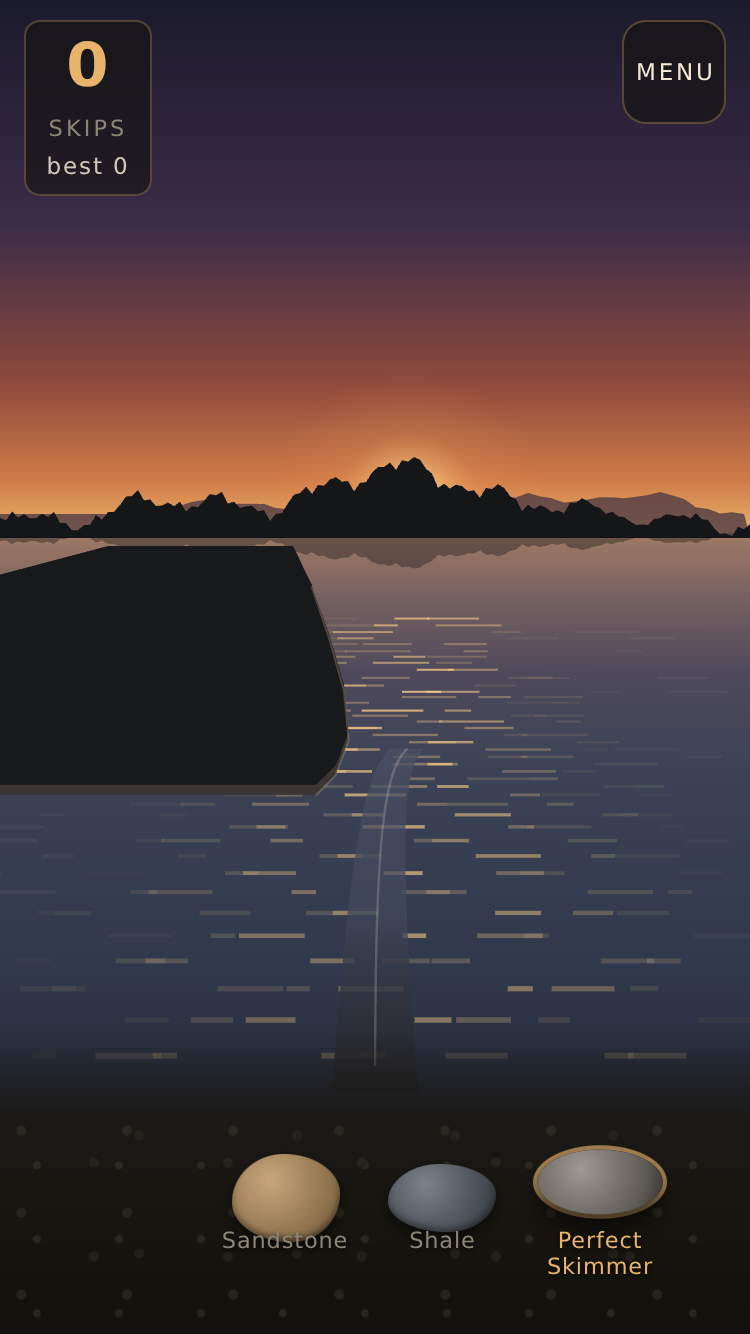
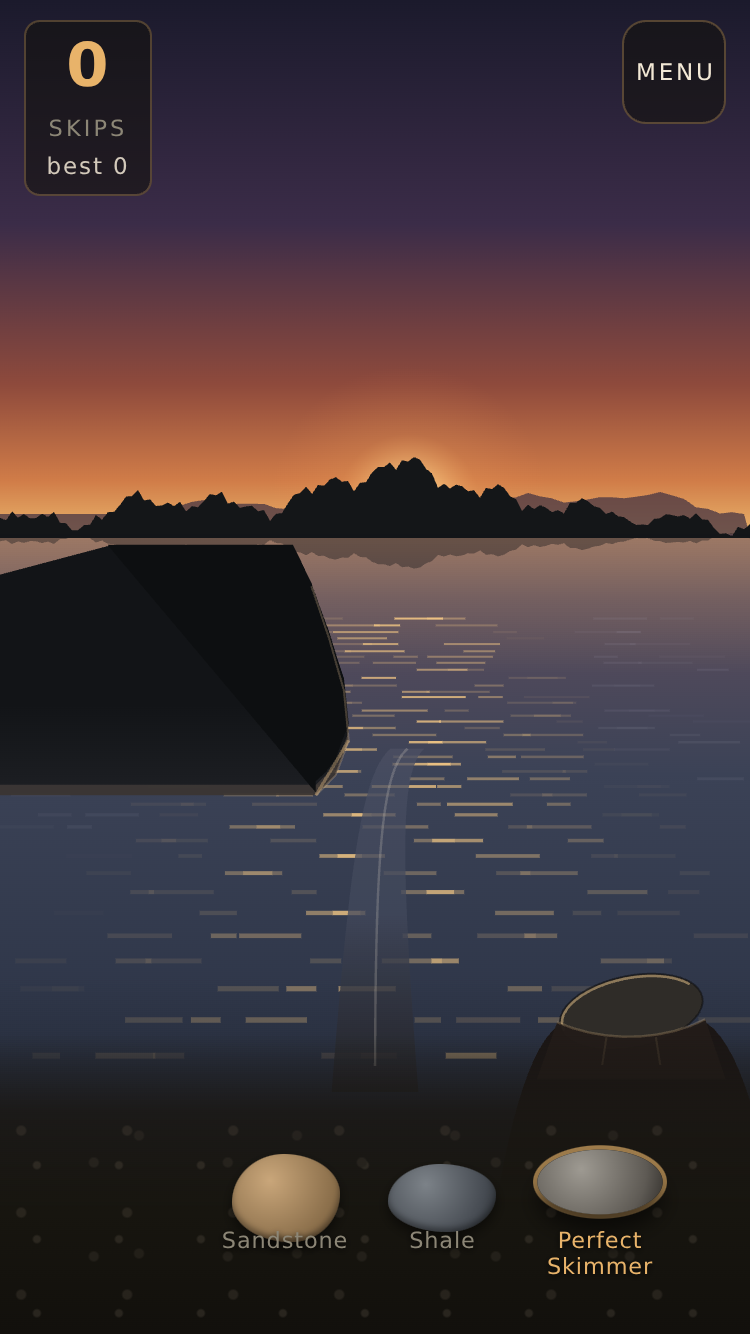
Gerplunk A7: the point is a wooded shore, and the stone you picked is in your hand
Both thin list items, neither needing any art. The point was one flat black
polygon with a ruled top edge, a piece of cardboard on the water; the mass is a
gradient now and a treeline stands on its landward edge, drawn from the same
continuous sines the far bank uses so the two read as one country. The stone you
picked is held at the right edge of the frame, cut by the bottom, and it goes
when the stone goes, which also fills the empty bottom third.

Three of my own probes were wrong first and each is written down: the trees
vanished at distance so the gate correctly measured a ruled line, the palm probe
was counting the sun's road on the water, and its colour threshold was chosen
rather than read off the canvas. One assertion was deleted for being decoration,
a step count whose bands are one apart at 320.

Seven gates green. Stamp 20260907b.

Claude-Session: https://claude.ai/code/session_018DB4RoSYktXhZkZcaK82Vg

diff --git a/satellites/gerplunk/index.html b/satellites/gerplunk/index.html
@@ -1,11 +1,11 @@
 <meta charset="utf-8">
 <meta name="viewport" content="width=device-width,initial-scale=1,viewport-fit=cover,maximum-scale=1">
 <meta name="theme-color" content="#1B1A24">
-<link rel="icon" href="./icon-192.png?v=20260907a">
-<link rel="apple-touch-icon" href="./icon-192.png?v=20260907a">
-<link rel="manifest" href="./manifest.webmanifest?v=20260907a">
+<link rel="icon" href="./icon-192.png?v=20260907b">
+<link rel="apple-touch-icon" href="./icon-192.png?v=20260907b">
+<link rel="manifest" href="./manifest.webmanifest?v=20260907b">
 <title>GERPLUNK</title>
-<script src="/music-unlocks.js?v=20260907a" defer></script>
+<script src="/music-unlocks.js?v=20260907b" defer></script>
 <style>
 :root{
   --dusk:#1B1A24; --water:#2E3646; --water-lo:#232A38; --gold:#E8B36A; --gold-lo:#A9793F;
@@ -1519,7 +1519,7 @@ function suiteCopy(T) {
    Nothing below reaches into the model except through newThrow, runThrow,
    plantYaw, motionFromSamples and throwFromMotion, and the picture is drawn
    from the model's own trace, so the count and the picture cannot disagree. */
-var STAMP = '20260907a';
+var STAMP = '20260907b';
 var $ = function (id) { return document.getElementById(id); };
 var CV, CTX, W = 375, H = 667, DPR = 1;
 
@@ -2244,11 +2244,63 @@ function drawLand() {
   /* the wet edge first, then the land on top of it */
   CTX.fillStyle = 'rgba(58,52,48,0.9)';
   CTX.beginPath(); for (i = 0; i < rim.length; i++) { p = rim[i]; if (i) CTX.lineTo(p.x, p.y); else CTX.moveTo(p.x, p.y); } CTX.closePath(); CTX.fill();
-  CTX.fillStyle = '#17191B';
+  /* ⛔ THE LAND WAS ONE FLAT BLACK POLYGON with a straight top edge running off
+     the left of the screen: a piece of cardboard laid on the water, which is
+     what the thin list means by "a flat dusk silhouette". Three things fix it
+     and all three are code drawing.
+     (1) The mass is a GRADIENT, near land a shade warmer than far land, because
+     the near tip is a few metres away and the shoulder is half a kilometre.
+     (2) A TREELINE stands on the landward edge, drawn from the SAME continuous
+     `treeH` the far bank uses, so the point is wooded and its top edge is not a
+     ruled line; it scrolls with the yaw like everything else in the world.
+     (3) The lip catches the sun: the water is bright right of the tip and the
+     wet stones there take a little of it. */
+  var g0 = CTX.createLinearGradient(0, top[1].y - 40, 0, top[0].y + 30);
+  g0.addColorStop(0, '#121417');
+  g0.addColorStop(1, '#23252A');
+  CTX.fillStyle = g0;
   CTX.beginPath(); for (i = 0; i < top.length; i++) { p = top[i]; if (i) CTX.lineTo(p.x, p.y); else CTX.moveTo(p.x, p.y); } CTX.closePath(); CTX.fill();
-  /* a stony lip where the land meets the water */
+  /* the trees ON the point, standing along its landward edge */
+  drawPointTrees(top);
+  /* a stony lip where the land meets the water, and the sun on it near the tip */
   CTX.strokeStyle = 'rgba(214,182,140,0.28)'; CTX.lineWidth = 1;
   CTX.beginPath(); for (i = 1; i < 7; i++) { p = rim[i]; if (i > 1) CTX.lineTo(p.x, p.y); else CTX.moveTo(p.x, p.y); } CTX.stroke();
+  CTX.strokeStyle = 'rgba(255,208,142,0.34)'; CTX.lineWidth = 1.6;
+  CTX.beginPath(); CTX.moveTo(rim[1].x, rim[1].y); CTX.lineTo(rim[3].x, rim[3].y); CTX.stroke();
+}
+/* THE TREES ON THE POINT. The landward edge of the point runs from its tip out
+   to the horizon, and a wooded shore has a skyline. Drawn against the same
+   `treeH` sum of sines the far bank uses, with a seed of its own, so the two
+   read as one country; the heights fall away with the projection so the far end
+   of the point is scrub and the near end is real trees. */
+function drawPointTrees(top) {
+  var i, seg, off = yawNow() * LAKE.TREE_PX_PER_DEG;
+  CTX.save();
+  CTX.fillStyle = '#0D0F11';
+  CTX.beginPath();
+  CTX.moveTo(top[1].x, top[1].y + 4);
+  for (i = 1; i < top.length - 1; i++) {
+    var a = top[i], b = top[i + 1];
+    var n = Math.max(2, Math.min(28, Math.round(Math.abs(b.x - a.x) / 5)));
+    for (seg = 0; seg <= n; seg++) {
+      var u = seg / n, x = a.x + (b.x - a.x) * u, y = a.y + (b.y - a.y) * u;
+      /* the scale of a tree at this distance, from the projection's own s */
+      /* ⛔ AT 0.055 THE TREES VANISHED. The far end of the point is six hundred
+         metres out, where the projection's scale is a fraction of a pixel per
+         metre, so `min(1, s * 0.055)` was near zero and six hundred pixels of
+         skyline came out as a ruled line: the gate measured a deviation of
+         nought. A treeline at six hundred metres is still a visible fringe, so
+         the height falls with distance to a FLOOR of two and a half pixels
+         rather than to nothing. */
+      var sc = (a.s + (b.s - a.s) * u) * 0.16;
+      var h = (7 + treeH((x + off) * 0.9 + 41, 5)) * Math.min(1, sc);
+      CTX.lineTo(x, y - Math.max(2.5, Math.min(26, h)));
+    }
+  }
+  CTX.lineTo(top[top.length - 1].x, top[top.length - 1].y);
+  CTX.lineTo(top[1].x, top[1].y + 4);
+  CTX.closePath(); CTX.fill();
+  CTX.restore();
 }
 function drawTrees() {
   var hy = horizonY(), off = yawNow() * LAKE.TREE_PX_PER_DEG, x, seed = 3;
@@ -2415,6 +2467,83 @@ function drawStone(pos) {
   CTX.beginPath(); CTX.ellipse(p.x - rx * 0.3, p.y - ry * 0.35, rx * 0.28, ry * 0.28, 0, 0, Math.PI * 2); CTX.fill();
 }
 function yawNow() { return G.liveYaw === null ? G.yaw : G.liveYaw; }
+
+/* THE STONE IN THE PALM. On the thin list twice over: "no stone in the palm
+   view" and "the thumb's bottom third is empty water". The bank tells you which
+   stone is picked with a button and a name, and then the thing you are about to
+   throw is nowhere on the screen. It sits at the RIGHT edge, out of the seam's
+   way and a long way from the bottom left 120 by 120 the music chip owns, and
+   it goes when the stone goes. Code drawing, no art. */
+var STONE_LOOK = {
+  sandstone: { hi: '#D8B489', mid: '#8A6E4A', lo: '#4E3D28', w: 1.00, h: 0.80 },
+  shale: { hi: '#8C939B', mid: '#464B52', lo: '#25282C', w: 1.06, h: 0.60 },
+  granite: { hi: '#B6B1A7', mid: '#6B655C', lo: '#3A3631', w: 0.92, h: 0.90 },
+  skimmer: { hi: '#ADA9A0', mid: '#5E5A54', lo: '#2F2C28', w: 1.10, h: 0.54 },
+  heavyflat: { hi: '#7E7972', mid: '#403C37', lo: '#1F1D1A', w: 1.10, h: 0.68 },
+  seaglass: { hi: '#CFF0DC', mid: '#5FA484', lo: '#2C5F48', w: 1.02, h: 0.64 },
+  fossil: { hi: '#C6BAA2', mid: '#6B6252', lo: '#3A342B', w: 1.00, h: 0.68 },
+  quartz: { hi: '#FFF8EC', mid: '#D8C6A8', lo: '#8C7A5C', w: 1.00, h: 0.66 }
+};
+function drawPalm() {
+  if (G.screen !== 'lake') return;
+  if (G.play && !G.play.sunk) return;
+  var L = STONE_LOOK[G.stoneId] || STONE_LOOK.sandstone;
+  /* ⛔ THE FIRST DRAFT DREW TWO ROUND FINGERTIPS ON THE FACE OF THE STONE and it
+     read as a pair of eyes on a tan blob, which is worse than the empty water it
+     was meant to fill. A hand at the bottom of a frame is ONE shape rising from
+     off screen with the stone cradled in it, and the fingers are a single ridge
+     across the near edge, not discs on the front. */
+  var r = Math.max(26, Math.min(38, W * 0.088));
+  var cx = W - r * 1.8, cy = shoreY() - r * 1.25;
+  var rx = r * L.w, ry = r * L.h, tilt = -0.2;
+  /* the hand, rising from below the frame's bottom edge and cut by it */
+  CTX.save();
+  CTX.fillStyle = 'rgba(26,21,19,0.95)';
+  CTX.beginPath();
+  CTX.moveTo(cx - rx * 2.1, H);
+  CTX.quadraticCurveTo(cx - rx * 1.7, cy + ry * 1.5, cx - rx * 1.02, cy + ry * 0.42);
+  CTX.quadraticCurveTo(cx, cy + ry * 1.0, cx + rx * 1.05, cy + ry * 0.34);
+  CTX.quadraticCurveTo(cx + rx * 1.8, cy + ry * 1.4, cx + rx * 2.2, H);
+  CTX.closePath(); CTX.fill();
+  CTX.restore();
+  /* the stone, sitting in it */
+  var g = CTX.createRadialGradient(cx - rx * 0.34, cy - ry * 0.42, r * 0.08, cx, cy, rx * 1.1);
+  g.addColorStop(0, L.hi); g.addColorStop(0.55, L.mid); g.addColorStop(1, L.lo);
+  CTX.save();
+  CTX.translate(cx, cy); CTX.rotate(tilt);
+  CTX.fillStyle = g;
+  CTX.beginPath(); CTX.ellipse(0, 0, rx, ry, 0, 0, Math.PI * 2); CTX.fill();
+  /* the sun's rim along the top left, the same light the water has */
+  CTX.strokeStyle = 'rgba(255,214,150,0.45)'; CTX.lineWidth = 1.4;
+  CTX.beginPath(); CTX.ellipse(0, 0, rx * 0.97, ry * 0.94, 0, Math.PI * 0.95, Math.PI * 1.85); CTX.stroke();
+  CTX.strokeStyle = 'rgba(10,10,12,0.5)'; CTX.lineWidth = 1;
+  CTX.beginPath(); CTX.ellipse(0, 0, rx, ry, 0, 0, Math.PI * 2); CTX.stroke();
+  CTX.restore();
+  /* ONE ridge of fingers across the near edge, with the light on its top */
+  CTX.save();
+  CTX.fillStyle = 'rgba(34,27,24,0.96)';
+  CTX.beginPath();
+  CTX.moveTo(cx - rx * 1.02, cy + ry * 0.30);
+  CTX.bezierCurveTo(cx - rx * 0.4, cy + ry * 0.86, cx + rx * 0.4, cy + ry * 0.86, cx + rx * 1.02, cy + ry * 0.22);
+  CTX.lineTo(cx + rx * 1.3, cy + ry * 1.9);
+  CTX.lineTo(cx - rx * 1.3, cy + ry * 1.9);
+  CTX.closePath(); CTX.fill();
+  CTX.strokeStyle = 'rgba(255,214,150,0.20)'; CTX.lineWidth = 1.2;
+  CTX.beginPath();
+  CTX.moveTo(cx - rx * 1.02, cy + ry * 0.30);
+  CTX.bezierCurveTo(cx - rx * 0.4, cy + ry * 0.86, cx + rx * 0.4, cy + ry * 0.86, cx + rx * 1.02, cy + ry * 0.22);
+  CTX.stroke();
+  /* the two creases where the fingers meet, faint */
+  CTX.strokeStyle = 'rgba(255,214,150,0.09)'; CTX.lineWidth = 1;
+  var f;
+  for (f = -1; f <= 1; f += 2) {
+    CTX.beginPath();
+    CTX.moveTo(cx + f * rx * 0.34, cy + ry * 0.72);
+    CTX.lineTo(cx + f * rx * 0.40, cy + ry * 1.5);
+    CTX.stroke();
+  }
+  CTX.restore();
+}
 
 /* THE SPIN RING (P4, docs/THROW-REFERENCE.md A2). While the touch is down and
    the hand is still slow, a thin ring under the thumb draws the loop the thumb
@@ -2759,7 +2888,7 @@ function frame() {
   if (G.screen === 'lake' && (G.touch || !G.play || (G.play.sunk && G.rings.length === 0))) drawSeam();
   drawRings(G.play ? playT() : 0);
   if (G.play && !G.play.sunk) drawStone(stonePos(playT()));
-  if (G.screen === 'lake') drawSpinRing();
+  if (G.screen === 'lake') { drawPalm(); drawSpinRing(); }
   requestAnimationFrame(frame);
 }
 
@@ -2872,6 +3001,102 @@ window.GERPLUNK_DEV = {
     return { bank: G.spin, at: G.spinAt, down: !!T,
       x: s ? s[s.length - 1].x : null, y: s ? s[s.length - 1].y : null };
   },
+  /* THE LAND'S OWN EDGE, read off the canvas. A silhouette with a ruled top is
+     a piece of cardboard on the water, which is what the thin list means by "a
+     flat dusk silhouette"; a wooded point has a skyline that wanders. Walks the
+     columns across the point, finds where the dark land starts under the
+     horizon, and reports how far that boundary strays from the straight line
+     through its two ends and how often it steps. */
+  landEdge: function () {
+    var hy = horizonY(), sy = shoreY();
+    var d = CTX.getImageData(0, Math.round(hy * DPR), CV.width, Math.round((sy - hy) * DPR)).data;
+    var wpx = CV.width, hpx = Math.round((sy - hy) * DPR);
+    var cols = [], x, y, i, ys;
+    for (x = 2; x < wpx - 2; x += Math.max(1, Math.round(DPR))) {
+      ys = -1;
+      for (y = 0; y < hpx; y++) {
+        i = (y * wpx + x) * 4;
+        var lum = (d[i] + d[i + 1] + d[i + 2]) / 3;
+        /* ⛔ THE THRESHOLDS AND THE RUN WERE BOTH WRONG AND THE PROBE READ A FLAT
+           LINE. Under 34 missed the NEAR land, which is #23252A at lum 37
+           because the mass is a gradient now; and a run of four found the two
+           pixel strip where the far treeline's polygon closes just under the
+           horizon, at the same y in every column, which is exactly the ruled
+           line the assertion was written to forbid. The land is a big mass, so
+           the run is fourteen device rows. */
+        if (lum < 44) {
+          var run = 1, k;
+          for (k = 1; k < 14 && y + k < hpx; k++) {
+            var j = ((y + k) * wpx + x) * 4;
+            if ((d[j] + d[j + 1] + d[j + 2]) / 3 < 50) run++; else break;
+          }
+          if (run >= 14) { ys = y; break; }
+        }
+      }
+      if (ys >= 0) cols.push({ x: x / DPR, y: ys / DPR });
+    }
+    if (cols.length < 12) return { n: cols.length, steps: 0, turns: 0 };
+    /* ⛔ THE MEASURE IS LOCAL ROUGHNESS, NOT DEVIATION FROM A LINE. The first
+       draft took the straight line through the boundary's two ends and reported
+       the worst deviation from it, which came out at 127 px and would have
+       passed over a perfectly ruled shore: right of the point's tip there is no
+       land at all and the scan finds the DEEP WATER, which is nearly as dark, so
+       the number was measuring the gap between two different things. How often
+       the boundary STEPS from one column to the next is a property of the
+       skyline itself. Steps bigger than twenty pixels are the one place the land
+       ends and the water begins, and are not counted. */
+    var steps = 0, dy, turns = 0, prev = 0;
+    for (i = 1; i < cols.length; i++) {
+      dy = cols[i].y - cols[i - 1].y;
+      if (Math.abs(dy) >= 2 && Math.abs(dy) <= 20) steps++;
+      /* ⛔ TURNS, not steps, is the number that tells a skyline from a ruled
+         edge. A steep diagonal steps by two pixels a column all on its own, so
+         counting steps gave 29 with the trees against 20 without, which is too
+         narrow a band to hold anything. A diagonal never changes DIRECTION; a
+         treeline changes it at every tree. */
+      if (Math.abs(dy) > 20) { prev = 0; continue; }
+      if (dy !== 0) {
+        if (prev !== 0 && (dy > 0) !== (prev > 0)) turns++;
+        prev = dy;
+      }
+    }
+    return { n: cols.length, steps: steps, turns: turns };
+  },
+  /* how many pixels the STONE IN THE PALM paints, and where. It is on the thin
+     list twice, as "no stone in the palm view" and as "the thumb's bottom third
+     is empty water". */
+  palmInk: (function () {
+    function warm(d, i) { return d[i] > 58 && d[i] - d[i + 2] >= 18; }
+    return function () {
+    var r = Math.max(26, Math.min(38, W * 0.088));
+    var cx = W - r * 1.8, cy = shoreY() - r * 1.25;
+    var x0 = Math.max(0, Math.round((cx - r * 1.4) * DPR)), y0 = Math.max(0, Math.round((cy - r * 1.1) * DPR));
+    var x1 = Math.min(CV.width, Math.round((cx + r * 1.4) * DPR)), y1 = Math.min(CV.height, Math.round((cy + r * 1.1) * DPR));
+    if (x1 <= x0 || y1 <= y0) return { lit: 0, run: 0, box: [cx, cy, r] };
+    var d = CTX.getImageData(x0, y0, x1 - x0, y1 - y0).data, i, lit = 0;
+    var wpx = x1 - x0, hpx = y1 - y0, y, run = 0, best = 0;
+    /* ⛔ THE THRESHOLD WAS READ OFF THE CANVAS, not chosen. Down the middle of
+       the stone the pixels are 78,61,40, because the gradient's light is up and
+       to the LEFT and the centre column is already near the dark end; at a red
+       floor of 90 the probe could not see the stone it was written for. The
+       water there is 50,58,77 and the hand is 34,27,24, so red over 58 with red
+       at least eighteen over blue separates all three. */
+    for (i = 0; i < d.length; i += 4) if (warm(d, i)) lit++;
+    /* ⛔ A COUNT OF WARM PIXELS IS NOT A STONE. The sun's road lies across this
+       part of the water at the stance the gate looks from, and it is warm: the
+       count came out at 273 with the stone in hand and 258 without, which is a
+       probe measuring the lake. A stone is a SHAPE, so what is measured is the
+       longest unbroken run of warm pixels down the middle of the palm. The
+       stone is forty pixels of one thing; the sun's streaks are two. */
+    var col = Math.round(wpx / 2) * 4;
+    for (y = 0; y < hpx; y++) {
+      i = y * wpx * 4 + col;
+      if (warm(d, i)) { run++; if (run > best) best = run; }
+      else run = 0;
+    }
+    return { lit: Math.round(lit / (DPR * DPR)), run: Math.round(best / DPR), box: [cx, cy, r] };
+    };
+  })(),
   ink: function (cx, cy, rLo, rHi) {
     var pad = Math.ceil(rHi) + 3;
     var x0 = Math.max(0, Math.round((cx - pad) * DPR)), y0 = Math.max(0, Math.round((cy - pad) * DPR));

diff --git a/satellites/gerplunk/sw.js b/satellites/gerplunk/sw.js
@@ -12,7 +12,7 @@
    Bump SHELL_VERSION on every deploy, AND the ?v= on the registration in
    index.html in lockstep (they are both the STAMP, and tools/lint.mjs asserts it) — this host edge-pins bare sw.js URLs for 7 days. */
 
-const SHELL_VERSION = "gerplunk-shell-20260907a";
+const SHELL_VERSION = "gerplunk-shell-20260907b";
 const SFX_CACHE     = "gerplunk-unused-v1"; // no recorded audio: every sound is synthesised
 const NAV_TIMEOUT_MS = 8000;
 

diff --git a/satellites/gerplunk/docs/DECISIONS.md b/satellites/gerplunk/docs/DECISIONS.md
@@ -395,3 +395,41 @@ The gate reads the water at the exact point the thumb will hold, with no touch o
 then reads it again mid wind up; emptying `drawSpinRing` turns it red, and deleting the line
 that stops drawing once the arm is fast turns the companion assertion red. A gate that watched
 `G.spin` would have passed over a ring that was never painted.
+
+**D43 (2026-09-07, Opus) — the land is a wooded point, and the hand is not empty.** Both are on
+the thin list and both were exactly as it says.
+- **The point was one flat black polygon with a ruled top edge** running off the left of the
+  screen: a piece of cardboard laid on the water. Three things, all code drawing. The mass is a
+  gradient, near land a shade warmer than far, because the tip is sixteen metres away and the
+  shoulder is half a kilometre. A treeline stands on its landward edge, drawn from the SAME
+  continuous `treeH` sum of sines the far bank uses so the two read as one country and it scrolls
+  with the yaw. And the wet lip takes a little of the sun near the tip, where the water is bright.
+- **There was no stone in the palm** and the thumb's bottom third was empty water, both on the
+  thin list. The stone you picked is now held at the right edge, cut by the frame's bottom, out
+  of the seam's way and a long way from the bottom left 120 by 120 the music chip owns. It goes
+  when the stone goes.
+⛔ THE FIRST DRAFT OF THE HAND DREW TWO ROUND FINGERTIPS ON THE FACE OF THE STONE and it read as
+a pair of eyes on a tan blob, which is worse than the empty water it was meant to fill. A hand at
+the bottom of a frame is one shape rising from off screen with the stone cradled in it.
+
+**D44 (2026-09-07, Opus) — three probes for this were wrong before they were right, and each one
+was wrong in a way worth naming.**
+1. **The trees vanished.** At `min(1, s * 0.055)` the scale at the far end of the point, six
+   hundred metres out, was near zero, so six hundred pixels of skyline drew as a ruled line and
+   the gate measured a deviation of nought. A treeline at six hundred metres is still a fringe:
+   the height falls with distance to a floor of two and a half pixels rather than to nothing.
+2. **The palm probe was measuring the lake.** It counted warm pixels in a box, and the sun's road
+   lies across that water at the stance the gate looks from: 273 with the stone in hand and 258
+   without. A stone is a SHAPE, so what is measured now is the longest unbroken run of stone
+   coloured pixels down the middle of the palm, 46 with it and 3 without. Its threshold was then
+   read OFF THE CANVAS rather than chosen: down the middle of the stone the pixels are 78,61,40,
+   and at a red floor of 90 the probe could not see the stone it was written for.
+3. **The land edge probe found a ruled line and it was right.** It was reading the two pixel
+   strip where the far treeline's polygon closes just under the horizon, at the same y in every
+   column, which is precisely the fault the assertion forbids. The run had to be fourteen device
+   rows, and the dark threshold had to rise from 34 to 44 because the land is a gradient now and
+   its near end is lighter than its old flat black.
+⛔ AND ONE ASSERTION WAS DELETED FOR BEING DECORATION: with the trees the boundary steps 30, 28
+and 23 times at the three sizes and without them 20, 21 and 19. At 320 the two bands are one
+apart. Only `turns`, how often the skyline changes DIRECTION, separates cleanly: 8 to 10 wooded
+against 4 ruled. A diagonal steps on its own and never turns.

diff --git a/plans/gerplunk/HANDOFF-GERPLUNK.md b/plans/gerplunk/HANDOFF-GERPLUNK.md
@@ -353,6 +353,25 @@ on branch `add-sproing-jumper` tonight.
   that needs no call is A7, the land at the lee and the bay (a flat dusk silhouette, a
   straight far shore, no stone in the palm view). Nothing here is half built.
 
+- 2026-09-07 Opus (lead): **A7 IS DONE. THE LAND, AND THE STONE IN THE PALM.** Stamp
+  `20260907b` in three places. `node tools/check.js` ALL GATES PASSED over the seven.
+  Both thin list items are closed and neither needed any art: the point is a wooded shore with
+  a gradient mass and a skyline drawn from the same continuous sines the far bank uses, and the
+  stone you picked is held at the right edge of the frame and goes when the stone goes, which
+  also fills the empty bottom third the thin list names. D43.
+  **⛔ THREE OF MY OWN PROBES WERE WRONG FIRST** and each is worth carrying (D44): the trees
+  vanished at distance and the gate correctly measured a ruled line; the palm probe counted warm
+  pixels and was measuring the SUN'S ROAD on the water, 273 with the stone against 258 without;
+  and its colour threshold was chosen rather than read, at a red floor of 90 when the middle of
+  the stone is 78. The land edge probe's first find was real: it was reading the two pixel strip
+  where the far treeline's polygon closes under the horizon, at the same y in every column.
+  **⛔ AND ONE ASSERTION WAS DELETED FOR BEING DECORATION.** The boundary's step count separates
+  30/28/23 wooded from 20/21/19 ruled, which at 320 is a margin of one. Only `turns`, how often
+  the skyline changes direction, holds: 8 to 10 against 4. Watched to fail with the trees taken
+  out and with the hand keeping the stone in flight.
+  Shots opened: `p2-lee.png` three times, `p2-bay.png`.
+  **Next action:** P4 step 2, the turn, still waits on call 22. Nothing here is half built.
+
 ---
 
 ## 0. RULES OF ENGAGEMENT
